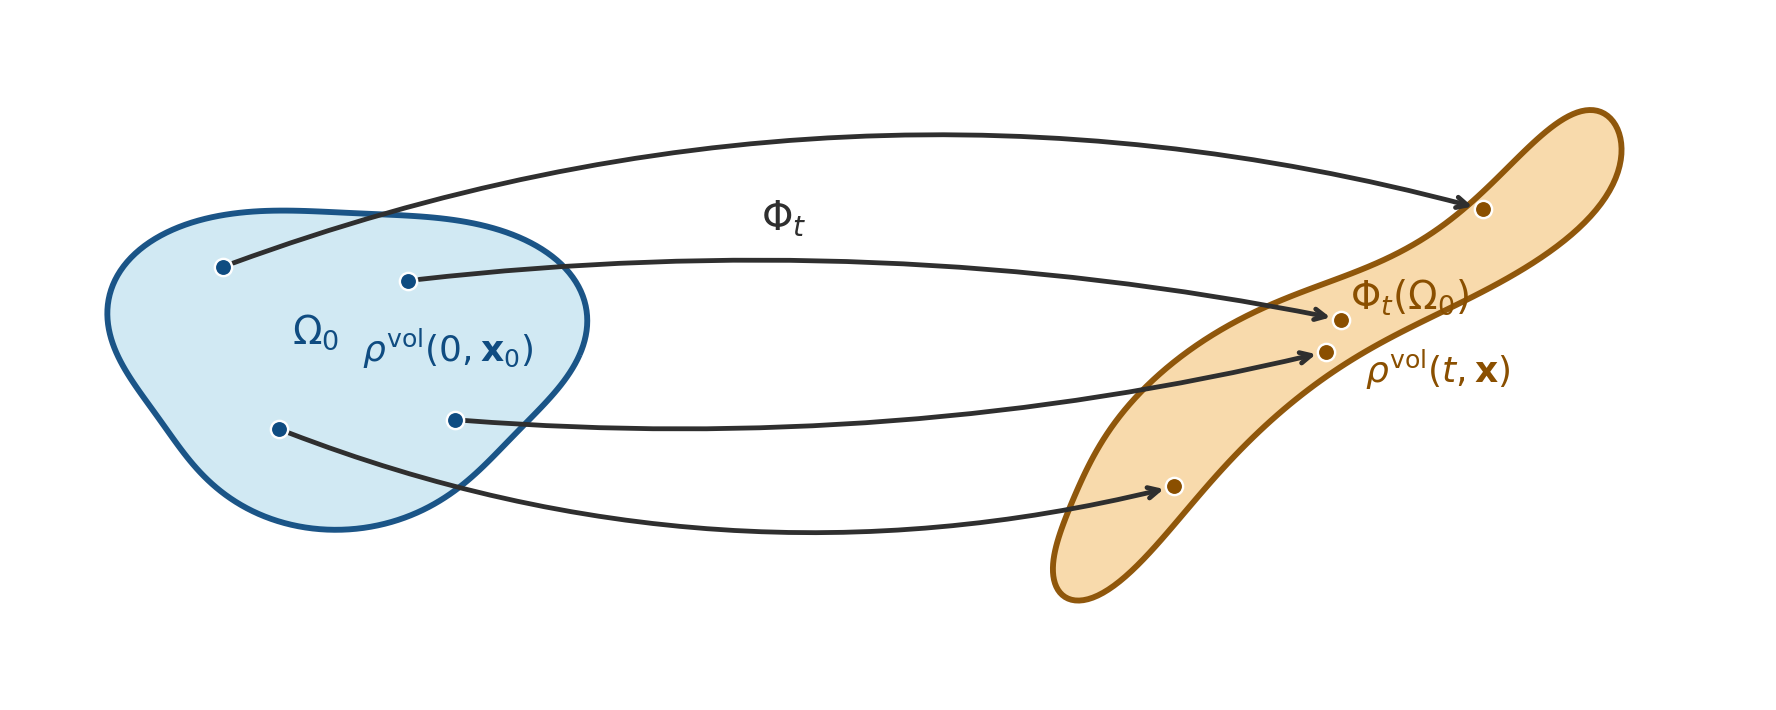
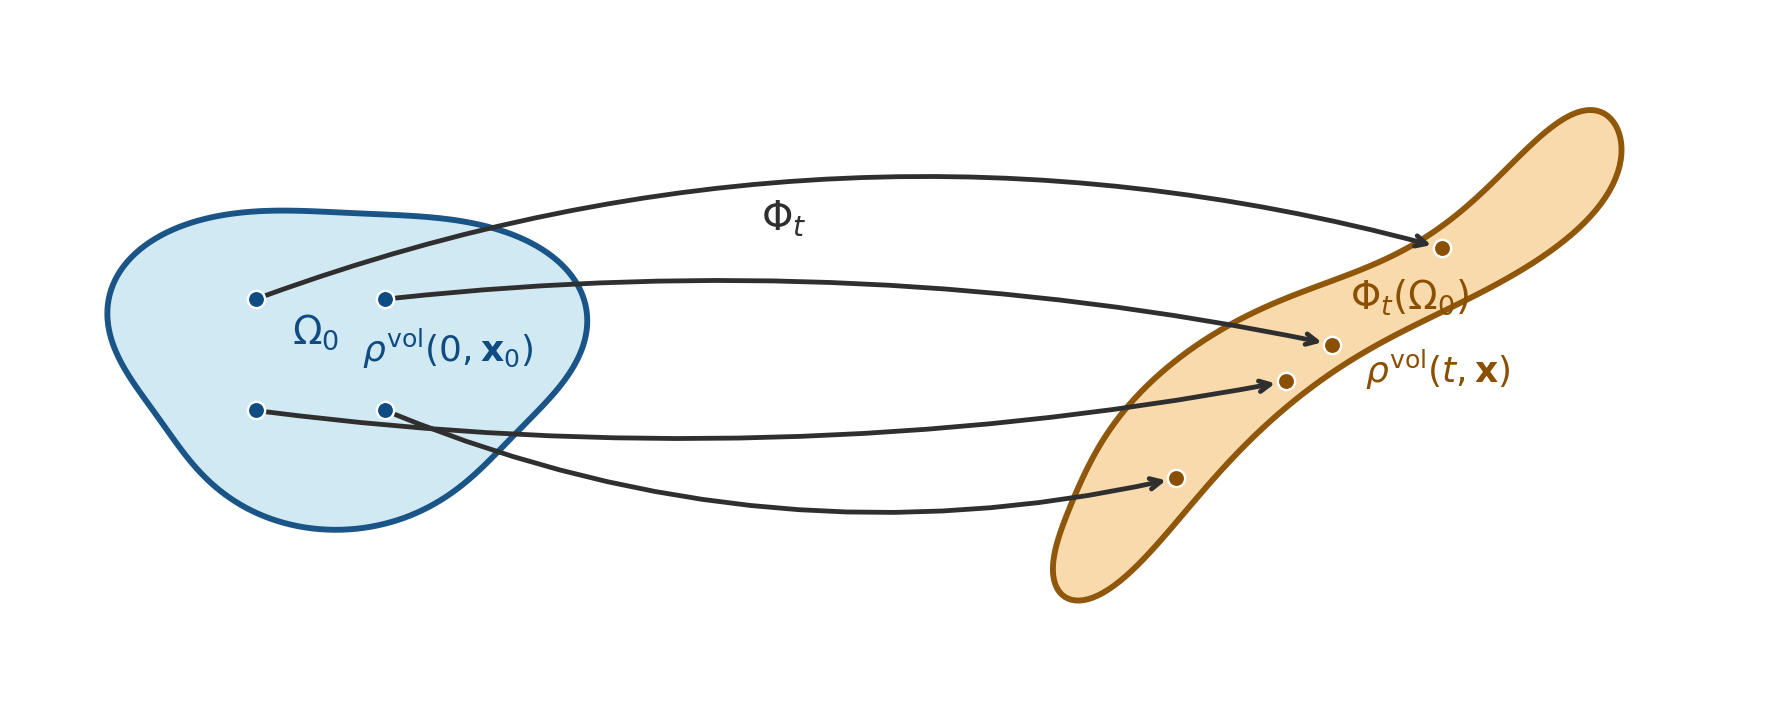
finished section 5

diff --git a/docs/index.html b/docs/index.html
@@ -335,7 +335,7 @@ m\,\ddot{\mathbf x} = -\frac{\partial V}{\partial \mathbf x}
 \qquad
 \delta \mathbf x(t_0)=\delta \mathbf x(t_1)=\mathbf 0.
 \]</span></p>
-<div id="7f449f88" class="cell" data-execution_count="1">
+<div id="9069b0fa" class="cell" data-execution_count="1">
 <div class="cell-output cell-output-display">
 <div class="quarto-figure quarto-figure-center">
 <figure>
@@ -605,7 +605,7 @@ u_\varepsilon(t,\mathbf x) = u(t,\mathbf x) + \varepsilon\,\eta(t,\mathbf x),
 </section>
 <section id="a.-lagrangian-vs.-eulerian-sketches" class="slide level2 scrollable">
 <h2>3a. Lagrangian vs.&nbsp;Eulerian sketches</h2>
-<div id="0f60187b" class="cell" data-execution_count="2">
+<div id="5a146de8" class="cell" data-execution_count="2">
 <div class="cell-output cell-output-display">
 <div class="quarto-figure quarto-figure-center">
 <figure>
@@ -666,7 +666,7 @@ u_\varepsilon(t,\mathbf x) = u(t,\mathbf x) + \varepsilon\,\eta(t,\mathbf x),
 \int_{\Phi_t(\Omega_0)} \rho^\textrm{vol}(t, \mathbf x)\,\textrm d \mathbf x = \int_{\Omega_0} \rho^\textrm{vol}(0, \mathbf x_0)\,\textrm d \mathbf x_0\qquad \forall \,\Omega_0.
 \]</span></p>
 </div>
-<div id="fb4fe67f" class="cell" data-execution_count="3">
+<div id="251e82b8" class="cell" data-execution_count="3">
 <div class="cell-output cell-output-display">
 <div class="quarto-figure quarto-figure-center">
 <figure>
@@ -701,26 +701,26 @@ u_\varepsilon(t,\mathbf x) = u(t,\mathbf x) + \varepsilon\,\eta(t,\mathbf x),
 </section>
 <section id="b.-from-lagrangian-to-eulerian-coordinates" class="slide level2 scrollable">
 <h2>4b. From Lagrangian to Eulerian coordinates</h2>
-<p>Assume an initial density <span class="math inline">\(\rho^\textrm{vol}(0, \mathbf x_0)\quad\)</span> and consider the modified Lagrange action</p>
+<p>Assume an initial mass density <span class="math inline">\(\rho^\textrm{vol}(0, \mathbf x_0)\quad\)</span> and consider the modified Lagrange action</p>
 <p><span class="math display">\[
-\mathcal A_\textrm{Lagrange}(\Phi_t, \dot{\Phi}_t) = \int_0^T \int_{\Omega_0} \left( m\frac{|\dot{\Phi}_t(\mathbf x_0)|^2}{2} - V\big(\Phi_t(\mathbf x_0)\big)  \right) \rho^\textrm{vol}(0, \mathbf x_0) \, \textrm d \mathbf x_0\,\mathrm dt.
+\mathcal A_\textrm{Lagrange}(\Phi_t, \dot{\Phi}_t) = \int_0^T \int_{\Omega_0} \left( \frac{|\dot{\Phi}_t(\mathbf x_0)|^2}{2} - \frac 1m V\big(\Phi_t(\mathbf x_0)\big)  \right) \rho^\textrm{vol}(0, \mathbf x_0) \, \textrm d \mathbf x_0\,\mathrm dt.
 \]</span></p>
 <div class="fragment">
 <p>Using the change of variables <span class="math inline">\(\mathbf x = \Phi_t(\mathbf x_0)\quad\)</span>, as well as the dynamics given by <br> <span class="math inline">\(\dot{\Phi}_t(\mathbf x_0) = \mathbf u(t, \Phi_t(\mathbf x_0))\qquad\,\,\,\)</span>, we get</p>
 <p><span class="math display">\[
 \mathcal A_\textrm{Euler}(\mathbf u, \ldots)
-= \int_0^T \int_{\Omega} \left( m\frac{|\mathbf u(t, \mathbf x)|^2}{2} - V(\mathbf x) \right) \frac{\rho^\textrm{vol}(0, \Phi_t^{-1}(\mathbf x))}{ \big| \textrm{det} D\Phi_t(\Phi_t^{-1}(\mathbf x)) \big|} \, \textrm d \mathbf x\,\mathrm dt
+= \int_0^T \int_{\Omega} \left( \frac{|\mathbf u(t, \mathbf x)|^2}{2} - \frac 1m V(\mathbf x) \right) \frac{\rho^\textrm{vol}(0, \Phi_t^{-1}(\mathbf x))}{ \big| \textrm{det} D\Phi_t(\Phi_t^{-1}(\mathbf x)) \big|} \, \textrm d \mathbf x\,\mathrm dt
 \]</span></p>
 </div>
 <div class="fragment">
 <p>We can now use 2. from the previous slide, namely</p>
 <p><span class="math display">\[
-\rho^\textrm{vol}(\Phi_t(\mathbf x_0)) \,\big| \textrm{det} D\Phi_t(\mathbf x_0) \big|  = \rho^{\textrm{vol}}(0, \mathbf x_0),
+\rho^\textrm{vol}(t, \Phi_t(\mathbf x_0)) = \frac{\rho^{\textrm{vol}}(0, \mathbf x_0)}{\big| \textrm{det} D\Phi_t(\mathbf x_0) \big|},
 \]</span></p>
 <p>to obtain</p>
 <p><span class="math display">\[
 \mathcal A_\textrm{Euler}(\mathbf u, \rho^\textrm{vol})
-= \int_0^T \int_{\Omega} \left( m\frac{|\mathbf u(t, \mathbf x)|^2}{2} - V(\mathbf x) \right) \rho^\textrm{vol}(t, \mathbf x) \, \textrm d \mathbf x\,\mathrm dt
+= \int_0^T \int_{\Omega} \left( \frac{|\mathbf u(t, \mathbf x)|^2}{2} - \frac 1m V(\mathbf x) \right) \rho^\textrm{vol}(t, \mathbf x) \, \textrm d \mathbf x\,\mathrm dt
 \]</span></p>
 <p><strong>The unknown flow map <span class="math inline">\(\Phi_t\,\)</span> has thus been replaced by the two unknown fields <span class="math inline">\(\mathbf u(t, \mathbf x)\,\,\,\)</span> and <span class="math inline">\(\rho^\textrm{vol}(t, \mathbf x)\quad\)</span>. These fields have to be determined by variation of the new action.</strong></p>
 </div>
@@ -747,7 +747,7 @@ u_\varepsilon(t,\mathbf x) = u(t,\mathbf x) + \varepsilon\,\eta(t,\mathbf x),
 <p>The Euler action:</p>
 <p><span class="math display">\[
 \mathcal A_\textrm{Euler}(\mathbf u, \rho^\textrm{vol})
-= \int_0^T \int_{\Omega} \left( m\frac{|\mathbf u(t, \mathbf x)|^2}{2} - V(\mathbf x) \right) \rho^\textrm{vol}(t, \mathbf x) \, \textrm d \mathbf x\,\mathrm dt
+= \int_0^T \int_{\Omega} \left( \frac{|\mathbf u(t, \mathbf x)|^2}{2} - \frac 1m V(\mathbf x) \right) \rho^\textrm{vol}(t, \mathbf x) \, \textrm d \mathbf x\,\mathrm dt
 \]</span></p>
 <div class="fragment">
 <p>The <strong>constrained variations</strong>:</p>
@@ -762,16 +762,302 @@ u_\varepsilon(t,\mathbf x) = u(t,\mathbf x) + \varepsilon\,\eta(t,\mathbf x),
 <div class="fragment">
 <p>The computation:</p>
 <p><span class="math display">\[
-\delta \mathcal A_\textrm{Euler} = \underbrace{\int_0^T \int_{\Omega} m\mathbf u \cdot \delta \mathbf u \, \rho^\textrm{vol} \, \textrm d \mathbf x\,\mathrm dt}_{\text{①}} + \underbrace{\int_0^T \int_{\Omega} \left( m\frac{|\mathbf u|^2}{2} - V \right) \delta \rho^\textrm{vol} \, \textrm d \mathbf x\,\mathrm dt}_{\text{②}}
+\delta \mathcal A_\textrm{Euler} = \underbrace{\int_0^T \int_{\Omega} \mathbf u \cdot \delta \mathbf u \, \rho^\textrm{vol} \, \textrm d \mathbf x\,\mathrm dt}_{\text{①}} + \underbrace{\int_0^T \int_{\Omega} \left( \frac{|\mathbf u|^2}{2} - \frac 1m V \right) \delta \rho^\textrm{vol} \, \textrm d \mathbf x\,\mathrm dt}_{\text{②}}
 \]</span></p>
 <p>First integral:</p>
 <p><span class="math display">\[
-    \text{①} = \int_0^T \int_{\Omega} m\mathbf u \cdot \left( \partial_t \boldsymbol\eta + \mathbf u \cdot \nabla \boldsymbol\eta - \boldsymbol\eta \cdot \nabla \mathbf u \right) \rho^\textrm{vol} \, \textrm d \mathbf x\,\mathrm dt
+\begin{aligned}
+    \text{①} &amp;= \int_0^T \int_{\Omega} \mathbf u \cdot \left( \partial_t \boldsymbol\eta + \mathbf u \cdot \nabla \boldsymbol\eta - \boldsymbol\eta \cdot \nabla \mathbf u \right) \rho^\textrm{vol} \, \textrm d \mathbf x\,\mathrm dt
+  \\[2mm]
+  &amp;= \int_0^T \int_{\Omega} \left[ - \frac{\partial}{\partial t}(\rho^\textrm{vol} \mathbf u) - \nabla \cdot (\rho^\textrm{vol} \mathbf u \mathbf u^\top) - \rho^\textrm{vol} \nabla \frac{|\mathbf u|^2}{2} \right] \cdot \boldsymbol \eta \, \textrm d \mathbf x\,\mathrm dt
+\end{aligned}
 \]</span></p>
-
-
+<p>Second integral:</p>
+<p><span class="math display">\[
+\begin{aligned}
+  \text{②} &amp;= - \int_0^T \int_{\Omega} \left( \frac{|\mathbf u|^2}{2} - \frac 1m V \right) \nabla \cdot (\rho^\textrm{vol} \boldsymbol\eta) \, \textrm d \mathbf x\,\mathrm dt
+  \\[2mm]
+  &amp;= \int_0^T \int_{\Omega} \left[ \rho^\textrm{vol} \nabla \left( \frac{|\mathbf u|^2}{2} - \frac 1m V \right) \right] \cdot \boldsymbol\eta \, \textrm d \mathbf x\,\mathrm dt
+\end{aligned}
+\]</span></p>
+<p>Hamilton’s principle <span class="math inline">\(\text{①} + \text{②} = 0\quad\)</span> for arbitrary <span class="math inline">\(\boldsymbol\eta\,\)</span> yields <em>Euler’s equation</em> for the fluid velocity field:</p>
+<p><span class="math display">\[
+\frac{\partial}{\partial t}(\rho^\textrm{vol} \mathbf u) + \nabla \cdot (\rho^\textrm{vol} \mathbf u \mathbf u^\top) = - \frac{\rho^\textrm{vol}}{m} \nabla V.
+\]</span></p>
+<p>The mass conservation law is given by our assumption that <span class="math inline">\(\rho^\textrm{vol}\,\)</span> is a density transported by the flow:</p>
+<p><span class="math display">\[
+\frac{\partial \rho^\textrm{vol}}{\partial t} + \nabla \cdot (\rho^\textrm{vol} \mathbf u) = 0.
+\]</span></p>
 </div>
 </section></section>
+<section>
+<section id="part-ii-discretization---particle-methods-for-fluid-lagrangians" class="title-slide slide level1 center">
+<h1>Part II: Discretization - Particle methods for fluid Lagrangians</h1>
+
+</section>
+<section id="two-approaches" class="slide level2 scrollable">
+<h2>5. Two approaches</h2>
+</section>
+<section id="a.-approximating-a-density-by-particles" class="slide level2 scrollable">
+<h2>5a. Approximating a density by particles</h2>
+<p>A density <span class="math inline">\(\rho^\textrm{vol}\,\,\,\)</span> satisfies</p>
+<p><span class="math display">\[
+\int_{\Phi_t(\Omega_0)} \rho^\textrm{vol}(t, \mathbf x)\,\textrm d \mathbf x = \int_{\Omega_0} \rho^\textrm{vol}(0, \mathbf x_0)\,\textrm d \mathbf x_0\qquad \forall \,\Omega_0.
+\]</span></p>
+<p>Divide the initial domain <span class="math inline">\(\Omega_0\,\)</span> into small subregions such that <span class="math inline">\(\bigcup_i \Omega_0^i = \Omega_0:\)</span></p>
+<div id="8beba376" class="cell" data-execution_count="4">
+<div class="cell-output cell-output-display">
+<div class="quarto-figure quarto-figure-center">
+<figure>
+<p><img data-src="index_files/figure-revealjs/cell-5-output-1.png" class="quarto-figure quarto-figure-center" width="987" height="285"></p>
+</figure>
+</div>
+</div>
+</div>
+<p>Define the <strong>weights</strong> <span class="math inline">\(w_i \in \mathbb R\quad\)</span> for each subregion <span class="math inline">\(\Omega_0^i\,\)</span> by</p>
+<p><span class="math display">\[
+w_i := \int_{\Omega_0^i} \rho^\textrm{vol}(0, \mathbf x_0)\,\textrm d \mathbf x_0
+\]</span></p>
+<p>such that</p>
+<p><span class="math display">\[
+\sum_i w_i = \int_{\Omega_0} \rho^\textrm{vol}(0, \mathbf x_0)\,\textrm d \mathbf x_0
+\]</span></p>
+<p>Now let <span class="math inline">\(\mathbf x_0^i \in \Omega_0^i\quad\)</span>, then</p>
+<p><span class="math display">\[
+\mathbf x^i(t) = \Phi_t(\mathbf x_0^i) \quad \in \Phi_t(\Omega_0^i) \qquad \forall t \in [0, T].
+\]</span></p>
+<p><strong>Particle approximation:</strong> We can approximate the density <span class="math inline">\(\rho^\textrm{vol}(t, \mathbf x)\quad\)</span> at time <span class="math inline">\(t\)</span> by a <strong>sum of weighted delta distributions</strong> centered at the particle locations <span class="math inline">\(\mathbf x^i(t):\)</span></p>
+<p><span class="math display">\[
+\rho^\textrm{vol}(t, \mathbf x) \approx \rho_N(t, \mathbf x) := \sum_{i=1}^N w_i\, \delta(\mathbf x - \mathbf x^i(t)).
+\]</span></p>
+<p>The discrete <span class="math inline">\(\rho_N\,\)</span> is still a density (!) since</p>
+<p><span class="math display">\[
+\int_{\Phi_t(\Omega_0)} \rho_N(t, \mathbf x)\,\textrm d \mathbf x = \sum_{i=1}^N w_i = \int_{\Omega_0} \rho^\textrm{vol}(0, \mathbf x_0)\,\textrm d \mathbf x_0.
+\]</span></p>
+<p>The particles are advected by the flow,</p>
+<p><span class="math display">\[
+\mathbf x^i(t) = \Phi_t(\mathbf x_0^i),\quad \Longleftrightarrow \quad \dot{\mathbf x}^i(t) = \mathbf u(t, \mathbf x^i(t))\quad \mathbf x^i(0) = \mathbf x_0^i.  
+\]</span></p>
+<p><strong>The weights <span class="math inline">\(w_i\,\)</span> are constant in time, since they are defined by the initial density <span class="math inline">\(\rho^\textrm{vol}(0, \mathbf x_0)\quad\)</span> and the partition of the initial domain <span class="math inline">\(\Omega_0\,\)</span> into subregions <span class="math inline">\(\Omega_0^i.\)</span></strong></p>
+</section>
+<section id="b.-approximating-integrals-by-particles-monte-carlo" class="slide level2 scrollable">
+<h2>5b. Approximating integrals by particles (Monte-Carlo)</h2>
+<p>Suppose we aim to compute the integral</p>
+<p><span class="math display">\[
+I = \int_\Omega A(\mathbf x)\,\rho^\textrm{vol}(\mathbf x)\,\textrm d \mathbf x.
+\]</span></p>
+<p>for some function (or <span class="math inline">\(0\,\)</span>-form) <span class="math inline">\(A(\mathbf x)\,\,\)</span>. Further, suppose <span class="math inline">\(s^\textrm{vol}\,\)</span> denotes a probability density supported on <span class="math inline">\(\Omega\,\)</span> such that</p>
+<p><span class="math display">\[
+s^\textrm{vol}(\mathbf x) &gt; 0\quad\forall\mathbf x \in \Omega,\qquad \int_\Omega s^\textrm{vol}(\mathbf x)\,\textrm d \mathbf x = 1.
+\]</span></p>
+<p>Then we can rewrite the integral <span class="math inline">\(I\,\)</span> as an expectation value <span class="math inline">\(\mathbb E\,\)</span> with respect to <span class="math inline">\(s^\textrm{vol}\,:\)</span></p>
+<p><span class="math display">\[
+I = \int_\Omega A(\mathbf x)\frac{\rho^\textrm{vol}(\mathbf x)}{s^\textrm{vol}(\mathbf x)} s^\textrm{vol}(\mathbf x)\,\textrm d \mathbf x = \mathbb E\left[ A\frac{\rho^\textrm{vol}}{s^\textrm{vol}} \right]_{s^\textrm{vol}}
+\]</span></p>
+<p><strong>Monte Carlo approximation.</strong> Draw <span class="math inline">\(N\,\)</span> independent samples <span class="math inline">\(\mathbf x_i \sim s^\textrm{vol}\quad\)</span> and approximate</p>
+<p><span class="math display">\[
+I \approx I_N := \frac{1}{N}\sum_{i=1}^N A(\mathbf x_i)\frac{\rho^\textrm{vol}(\mathbf x_i)}{s^\textrm{vol}(\mathbf x_i)} = \frac 1N \sum_{i=1}^N w_i A(\mathbf x_i).
+\]</span></p>
+<p>with weights</p>
+<p><span class="math display">\[
+w_i = \frac{\rho^\textrm{vol}(\mathbf x_i)}{s^\textrm{vol}(\mathbf x_i)}.
+\]</span></p>
+<p>The sample mean <span class="math inline">\(I_N\,\)</span> can be viewed as a random variable itself, when viewing the samples <span class="math inline">\(\mathbf x_i\,\)</span> as random variables distributed according to <span class="math inline">\(s^\textrm{vol}\,\)</span>. It is an <em>unbiased</em> estimator of the true mean value (which is our integral):</p>
+<p><span class="math display">\[
+\mathbb E[I_N] = \mathbb E\left[  \frac 1N \sum_{i=1}^N w_i A(\mathbf x_i) \right] =   \frac 1N \sum_{i=1}^N \mathbb  E\left[w_i A(\mathbf x_i) \right] = \frac{NI}{N}  = I.
+\]</span></p>
+<p>The variance of <span class="math inline">\(I_N\,\)</span> is given by</p>
+<p><span class="math display">\[
+\mathbb V[I_N] = \mathbb E\!\left[(I_N - \mathbb E[I_N])^2\right] = \mathbb E\!\left[(I_N - I)^2\right]
+\]</span></p>
+<p>and is a good measure for the error. Using Bienaymé’s identity for independent random variables <span class="math inline">\(X_i,\)</span></p>
+<p><span class="math display">\[
+\mathbb V\!\left[\sum_{i=1}^N X_i\right] = \sum_{i=1}^N \mathbb V[X_i],
+\]</span></p>
+<p>we can estimate the rate of convergence of the Monte Carlo approximation:</p>
+<p><span class="math display">\[
+\begin{aligned}
+\mathbb V[I_N] &amp;= \mathbb V\left[ \frac 1N \sum_{i=1}^N w_i A(\mathbf x_i) \right]
+\\[2mm]
+&amp;= \frac{1}{N^2} \mathbb V\left[  \sum_{i=1}^N w_i A(\mathbf x_i) \right]
+\\[2mm]
+&amp;= \frac{1}{N^2} \left[  \sum_{i=1}^N \mathbb V[w_i A(\mathbf x_i)] \right] = \frac{N \sigma^2}{N^2} = \frac{\sigma^2}{N}.
+\end{aligned}
+\]</span></p>
+<p>where <span class="math inline">\(\sigma\,\)</span> is the standard deviation of the random variable <span class="math inline">\(w_i A(\mathbf x_i)\quad\)</span>. Hence the root-mean-square error decays as</p>
+<p><span class="math display">\[
+\boxed{\varepsilon_N := \sqrt{\mathbb E\!\left[(I_N - I)^2\right]} = \frac{\sigma}{\sqrt{N}}}
+\]</span></p>
+<p><strong>independent of the spatial dimension <span class="math inline">\(d\)</span></strong> — this is the key advantage of Monte Carlo over quadrature rules, which converge as <span class="math inline">\(N^{-k/d}\,\,\,\)</span> for smooth <span class="math inline">\(k\,\)</span>-th order rules.</p>
+</section>
+<section id="c.-constant-weights" class="slide level2 scrollable">
+<h2>5c. Constant weights</h2>
+<p>In the Monte-Carlo approximation, the weights <span class="math inline">\(w_i\,\)</span> are given by</p>
+<p><span class="math display">\[
+w_i(t) = \frac{\rho^\textrm{vol}(t, \mathbf x_i(t))}{s^\textrm{vol}(t, \mathbf x_i(t))},
+\]</span></p>
+<p>where <span class="math inline">\(\mathbf x_i(t) = \Phi_t(\mathbf x_0^i)\qquad\)</span> are the particle locations at time <span class="math inline">\(t\,\)</span>. We can make the following observations:</p>
+<ul>
+<li><span class="math inline">\(\rho^\textrm{vol}\,\,\)</span> is a density and thus</li>
+</ul>
+<p><span class="math display">\[
+\rho^\textrm{vol}(t, \mathbf x_i(t)) = \frac{\rho^\textrm{vol}(0, \mathbf x_0^i)}{\big| \textrm{det} D\Phi_t(\mathbf x_0^i) \big|}.
+\]</span></p>
+<ul>
+<li><span class="math inline">\(s^\textrm{vol}\,\,\)</span> is an arbitrary probability density supported on <span class="math inline">\(\Omega\,\)</span>. We can choose it to be transported by the flow as well, i.e.&nbsp;</li>
+</ul>
+<p><span class="math display">\[s^\textrm{vol}(t, \mathbf x_i) = \frac{s^\textrm{vol}(0, \mathbf x_0^i)}{\big| \textrm{det} D\Phi_t(\mathbf x^i_0) \big|}.
+\]</span></p>
+<p>This implies constancy of the weights:</p>
+<p><span class="math display">\[
+w_i(t) = \frac{\rho^\textrm{vol}(t, \mathbf x_i(t))}{s^\textrm{vol}(t, \mathbf x_i(t))} = \frac{\rho^\textrm{vol}(0, \mathbf x_0^i)}{s^\textrm{vol}(0, \mathbf x_0^i)} = w_i(0) = const.
+\]</span></p>
+<p>Hence, in the Monte-Carlo approach, one draws the initial samples <span class="math inline">\(\mathbf x_0^i\,\)</span> from a probability density <span class="math inline">\(s^\textrm{vol}(0, \mathbf x_0)\quad\)</span>. <strong>The information about the initial density <span class="math inline">\(\rho^\textrm{vol}(0, \mathbf x_0)\quad\)</span> is encoded in the constant weights <span class="math inline">\(w_i\,\)</span>.</strong> The particles are then transported by the flow,</p>
+<p><span class="math display">\[
+\mathbf x^i(t) = \Phi_t(\mathbf x_0^i),\quad \Longleftrightarrow \quad \dot{\mathbf x}^i(t) = \mathbf u(t, \mathbf x^i(t))\quad \mathbf x^i(0) = \mathbf x_0^i,  
+\]</span></p>
+<p>and the weights remain constant.</p>
+</section>
+<section id="d.-comparing-the-two-approaches" class="slide level2 scrollable">
+<h2>5d. Comparing the two approaches</h2>
+<p>The particle approximation of the density <span class="math inline">\(\rho^\textrm{vol}(t, \mathbf x)\quad\)</span> is given by</p>
+<p><span class="math display">\[
+\rho_N(t, \mathbf x) = \sum_{i=1}^N w_i\, \delta(\mathbf x - \mathbf x^i(t)).
+\]</span></p>
+<p>where the markers are transported by the flow,</p>
+<p><span class="math display">\[
+\mathbf x^i(t) = \Phi_t(\mathbf x_0^i)
+\]</span></p>
+<p>and the weights remain constant.</p>
+<p>The same discrete ansatz is obtained from two different constructions of the initial markers and weights:</p>
+<table class="caption-top">
+<colgroup>
+<col style="width: 33%">
+<col style="width: 33%">
+<col style="width: 33%">
+</colgroup>
+<thead>
+<tr class="header">
+<th></th>
+<th>Density approach</th>
+<th>Monte-Carlo approach</th>
+</tr>
+</thead>
+<tbody>
+<tr class="odd">
+<td>Drawing the markers</td>
+<td>Partition <span class="math inline">\(\Omega_0\)</span> into grid cells <span class="math inline">\(\Omega_0^i\)</span> and place one marker at the cell center <span class="math inline">\(\mathbf x_0^i \in \Omega_0^i\quad\)</span>. The initial markers are therefore distributed regularly.</td>
+<td>Draw the initial markers randomly and independently, <span class="math inline">\(\mathbf x_0^i \sim s^\textrm{vol}(0, \mathbf x_0)\quad\,\,\)</span>. The initial markers therefore follow the sampling density <span class="math inline">\(s^\textrm{vol}\)</span>.</td>
+</tr>
+<tr class="even">
+<td>Weights</td>
+<td><span class="math inline">\(w_i := \int_{\Omega_0^i} \rho^\textrm{vol}(0, \mathbf x_0)\,\textrm d\mathbf x_0\)</span>.</td>
+<td><span class="math inline">\(w_i := \dfrac{\rho^\textrm{vol}(0, \mathbf x_0^i)}{s^\textrm{vol}(0, \mathbf x_0^i)}\)</span></td>
+</tr>
+<tr class="odd">
+<td>Comments</td>
+<td>Needs numerical quadrature over the initial cells.</td>
+<td>Lots of noise, but provable convergence of integrals <span class="math inline">\(1/\sim\sqrt N\)</span>.</td>
+</tr>
+</tbody>
+</table>
+</section>
+<section id="e.-example-pressure-less-fluids-in-a-given-potential" class="slide level2 scrollable">
+<h2>5e. Example: Pressure-less fluids in a given potential</h2>
+<p>We can now discretize the action in Eulerian coordinates,</p>
+<p><span class="math display">\[
+\mathcal A_\textrm{Euler}(\mathbf u, \rho^\textrm{vol})
+= \int_0^T \int_{\Omega} \left( \frac{|\mathbf u(t, \mathbf x)|^2}{2} - \frac 1m V(\mathbf x) \right) \rho^\textrm{vol}(t, \mathbf x) \, \textrm d \mathbf x\,\mathrm dt
+\]</span></p>
+<p>by substituting the particle approximation</p>
+<p><span class="math display">\[
+\rho^\textrm{vol}(t, \mathbf x) \approx \rho_N(t, \mathbf x) = \sum_{i=1}^N w_i\, \delta(\mathbf x - \mathbf x^i(t))
+\]</span></p>
+<p>to obtain</p>
+<p><span class="math display">\[
+\begin{aligned}
+\mathcal A(\mathbf u, \mathbf x^1, \ldots, \mathbf x^N)
+&amp;= \int_0^T \int_{\Omega} \left( \frac{|\mathbf u(t, \mathbf x)|^2}{2} - \frac 1m V(\mathbf x) \right) \rho_N(t, \mathbf x) \, \textrm d \mathbf x\,\mathrm dt
+\\[2mm]
+&amp;= \sum_{i=1}^N w_i \int_0^T \left( \frac{|\mathbf u(t, \mathbf x^i(t))|^2}{2} - \frac 1m V(\mathbf x^i(t)) \right) \, \mathrm dt
+\\[2mm]
+&amp;= \sum_{i=1}^N w_i \int_0^T \left( \frac{|\dot{\mathbf x}^i(t)|^2}{2} - \frac 1m V(\mathbf x^i(t)) \right) \, \mathrm dt
+\end{aligned}
+\]</span></p>
+<p>where we used the fact that the particles are advected by the flow, i.e.&nbsp;<span class="math inline">\(\dot{\mathbf x}^i(t) = \mathbf u(t, \mathbf x^i(t)).\)</span></p>
+<p><strong>The action has been reduced to a sum of <span class="math inline">\(N\,\)</span> independent single-particle actions. The dynamics of the system is thus given by <span class="math inline">\(N\,\)</span> independent copies of the single-particle dynamics in the potential <span class="math inline">\(V(\mathbf x)\,\,\,\)</span> i.e.&nbsp;<span class="math inline">\(N\,\)</span> independent solutions of Newton’s equation</strong></p>
+<p><span class="math display">\[
+\ddot{\mathbf x}^i = -\frac{1}{m}\nabla V(\mathbf x^i).
+\]</span></p>
+<p>By contrast, an Eulerian (grid-based) discretization of the same problem would require the discretization of</p>
+<p><span class="math display">\[
+\begin{aligned}
+\frac{\partial \rho^\textrm{vol}}{\partial t} + \nabla \cdot (\rho^\textrm{vol} \mathbf u) &amp;= 0
+\\[2mm]
+\frac{\partial \mathbf u}{\partial t} + \mathbf u \cdot \nabla \mathbf u &amp;= - \frac{1}{m} \nabla V
+\end{aligned}
+\]</span></p>
+<p>which features nonlinear terms and requires the solution of a coupled system of equations at each time step.</p>
+</section>
+<section id="f.-density-estimation-and-smoothing" class="slide level2 scrollable">
+<h2>5f. Density estimation and smoothing</h2>
+<p>At each time <span class="math inline">\(t\,\)</span> we have</p>
+<p><span class="math display">\[
+\rho_N(t, \mathbf x) = \sum_{i=1}^N w_i\, \delta(\mathbf x - \mathbf x^i(t)).
+\]</span></p>
+<p>But the true solution of the PDE is smooth.</p>
+<ul>
+<li>How to evaluate the density?</li>
+<li>How to visualize it?</li>
+<li>How to compute derivatives of the density?</li>
+</ul>
+<p>We can obtain a <strong>smoother approximation by convolution of <span class="math inline">\(\rho_N\,\)</span> with a smoothing kernel <span class="math inline">\(W_h\,\)</span> (e.g.&nbsp;a Gaussian kernel with bandwidth <span class="math inline">\(h\,\)</span>):</strong></p>
+<p><span class="math display">\[
+\rho_{h,N}(t, \mathbf x) := (W_h * \rho_N)(t, \mathbf x) = \int_\Omega W_h(\mathbf x - \mathbf y) \rho_N(t, \mathbf y)\,\textrm d \mathbf y = \sum_{i=1}^N w_i\, W_h(\mathbf x - \mathbf x^i(t)).
+\]</span></p>
+<p>At a chosen evaluation point <span class="math inline">\(\mathbf x^*\quad\)</span>, the sum only includes contributions from particles within the <span class="math inline">\(h\,\)</span>-neighborhood of <span class="math inline">\(\mathbf x^*,\)</span></p>
+<p><span class="math display">\[
+\rho_{h,N}(t, \mathbf x^*) = \sum_{i: \|\mathbf x^* - \mathbf x^i(t)\| &lt; h} w_i\, W_h(\mathbf x^* - \mathbf x^i(t)).
+\]</span></p>
+<div id="2bbed80c" class="cell" data-execution_count="5">
+<div class="cell-output cell-output-display">
+<div class="quarto-figure quarto-figure-center">
+<figure>
+<p><img data-src="index_files/figure-revealjs/cell-6-output-1.png" class="quarto-figure quarto-figure-center" width="609" height="394"></p>
+</figure>
+</div>
+</div>
+</div>
+<p>Algorithmically, we need an efficient way to query the neighboring particles for each evaluation point <span class="math inline">\(\mathbf x^*.\)</span></p>
+<ul>
+<li><p><strong>Solution: assign particles to boxes</strong>, require box-size <span class="math inline">\(\geq h\,\,\,\)</span>, then:</p>
+<ol type="1">
+<li>find box of <span class="math inline">\(\mathbf x^*\)</span></li>
+<li>query particles in the same box and the neighboring boxes</li>
+<li>compute the sum over these particles and ignore the rest</li>
+</ol></li>
+</ul>
+<div id="4f488ba4" class="cell" data-execution_count="6">
+<div class="cell-output cell-output-display">
+<div class="quarto-figure quarto-figure-center">
+<figure>
+<p><img data-src="index_files/figure-revealjs/cell-7-output-1.png" class="quarto-figure quarto-figure-center" width="609" height="394"></p>
+</figure>
+</div>
+</div>
+</div>
+<p>The question of convergence is important:</p>
+<ul>
+<li><span class="math inline">\(\rho_{h,N} \to \rho^\textrm{vol}\quad\,\)</span> as <span class="math inline">\(N \to \infty\quad\)</span> and <span class="math inline">\(h\,\)</span> fixed</li>
+<li><span class="math inline">\(\rho_{h,N} \to \rho^\textrm{vol}\quad\,\)</span> as <span class="math inline">\(h \to 0\quad\)</span> and <span class="math inline">\(Nh^3\,\,\)</span> fixed</li>
+</ul>
+<p>These are non-trivial questions for later.</p>
+</section></section>
+<section id="practical-part-i-marker-drawing-and-density-evaluation" class="title-slide slide level1 center">
+<h1>Practical Part I: Marker drawing and density evaluation</h1>
+
+
+</section>
     </div>
   <div class="quarto-auto-generated-content" style="display: none;">
 <p><img src="dog-cartoon-struphy.jpg" class="slide-logo"></p>